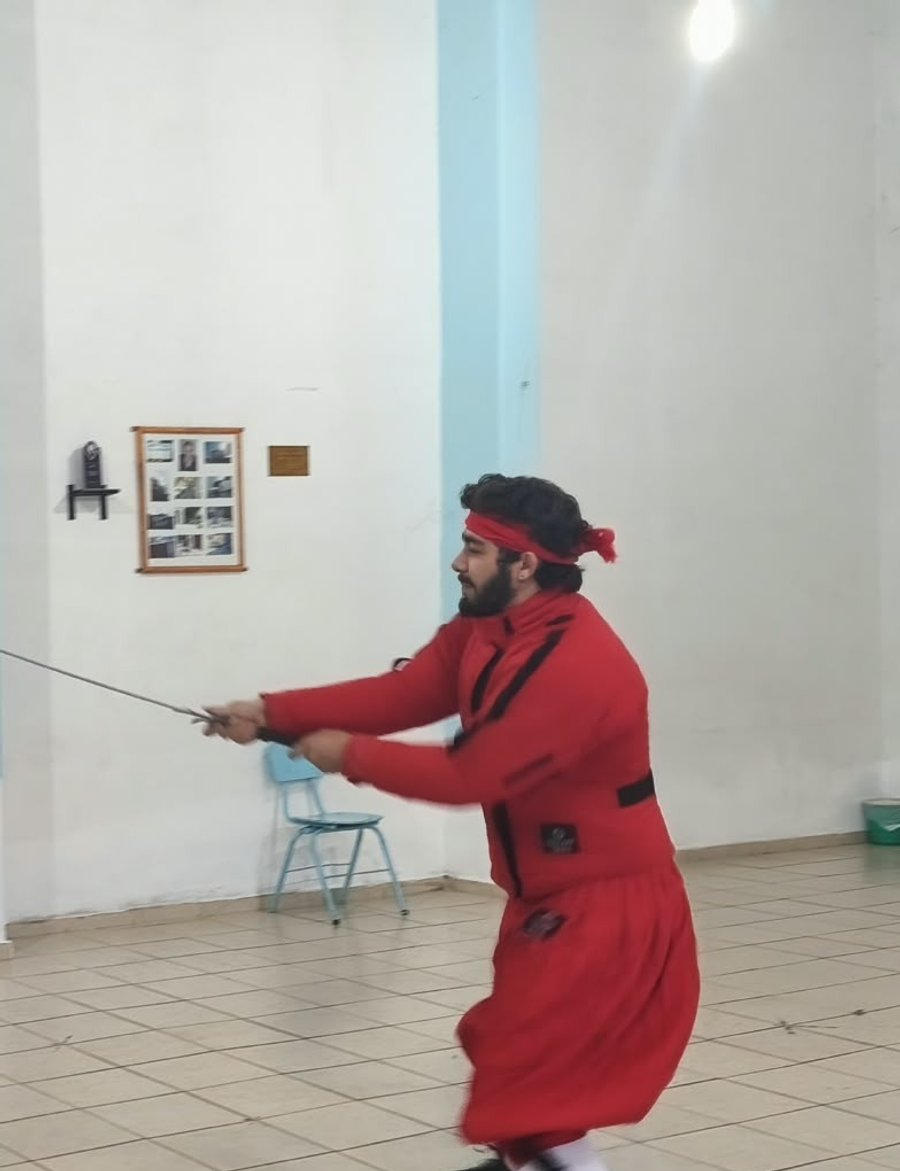
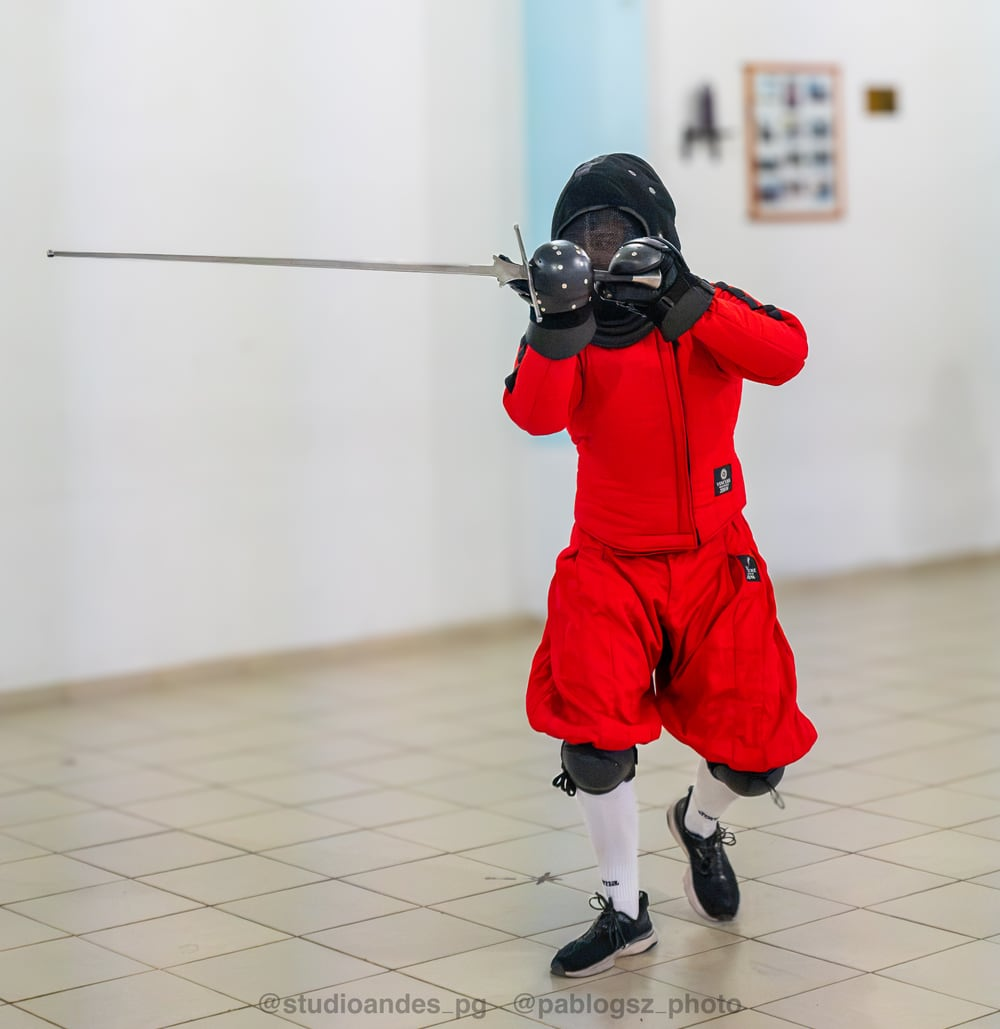
Add files via upload

diff --git a/index.html b/index.html
@@ -57,7 +57,7 @@
 <section id="que-es">
   <div class="container split reveal">
     <div>
-      <img src="assets/img/gallery/cruce-espadas.jpg" alt="Dos personas entrenando esgrima histórica">
+      <img src="assets/img/foto-que-es-hema.jpg" alt="Dos personas entrenando esgrima histórica">
     </div>
     <div>
       <span class="eyebrow">La base</span>
@@ -76,7 +76,7 @@
     </div>
     <div class="cards4 reveal">
       <div class="card-big">
-        <img src="assets/img/gallery/entrenamiento-guardia.jpg" alt="Espada larga">
+        <img src="assets/img/foto-espada-larga.jpg" alt="Espada larga">
         <div class="txt"><h3>Espada larga</h3><p>El arma principal. Guardias, cortes y control de distancia.</p></div>
       </div>
       <div class="card-big">
@@ -84,7 +84,7 @@
         <div class="txt"><h3>Lucha cuerpo a cuerpo</h3><p>Derribos y control a corta distancia, sin arma.</p></div>
       </div>
       <div class="card-big">
-        <img src="assets/img/gallery/cruce-espadas.jpg" alt="Combate">
+        <img src="assets/img/foto-combate.jpg" alt="Combate">
         <div class="txt"><h3>Combate</h3><p>Asaltos progresivos con equipo de protección real.</p></div>
       </div>
       <div class="card-big">
@@ -144,19 +144,19 @@
       <p class="lead mx-auto center">Entrená con gente que comparte la misma pasión. Esto es lo que se siente entrenar acá.</p>
     </div>
     <div class="community-grid reveal">
-      <img class="tall" src="assets/img/gallery/entrenamiento-guardia.jpg" alt="Entrenamiento en guardia">
-      <img src="assets/img/gallery/cruce-espadas.jpg" alt="Cruce de espadas">
+      <img class="tall" src="assets/img/foto-comunidad-1.jpg" alt="Entrenamiento en guardia">
+      <img src="assets/img/foto-comunidad-2.jpg" alt="Cruce de espadas">
       <img src="assets/img/gallery/trabajo-cercano.jpg" alt="Trabajo a corta distancia">
       <img src="assets/img/gallery/espadas-equipo.jpg" alt="Equipo del club">
-      <img src="assets/img/gallery/cruce-espadas.jpg" alt="Asalto de entrenamiento">
+      <img src="assets/img/hero-photo-mobile.jpg" alt="Asalto de entrenamiento">
     </div>
     <p class="form-note center" style="margin-top:1.5rem;font-size:.85rem;color:var(--gray-dim);">Esta sección crece con cada evento, asado y viaje del grupo — sumá esas fotos apenas las tengas.</p>
     <div class="cadh-badge reveal">
-      <span>Orgullosos miembros de la</span>
+      <span>Miembros de la</span>
       <a href="https://www.cadh-hema.com.ar" target="_blank" rel="noopener">
         <img src="assets/img/logo-cadh.svg" alt="Comunidad Argentina de HEMA">
       </a>
-      <span>y reconocidos por</span>
+      <span>y de</span>
       <a href="https://www.hema-argentina.com/" target="_blank" rel="noopener">
         <img src="assets/img/hemaarg-logo.png" alt="HEMA Argentina" class="hemaarg-logo">
       </a>
